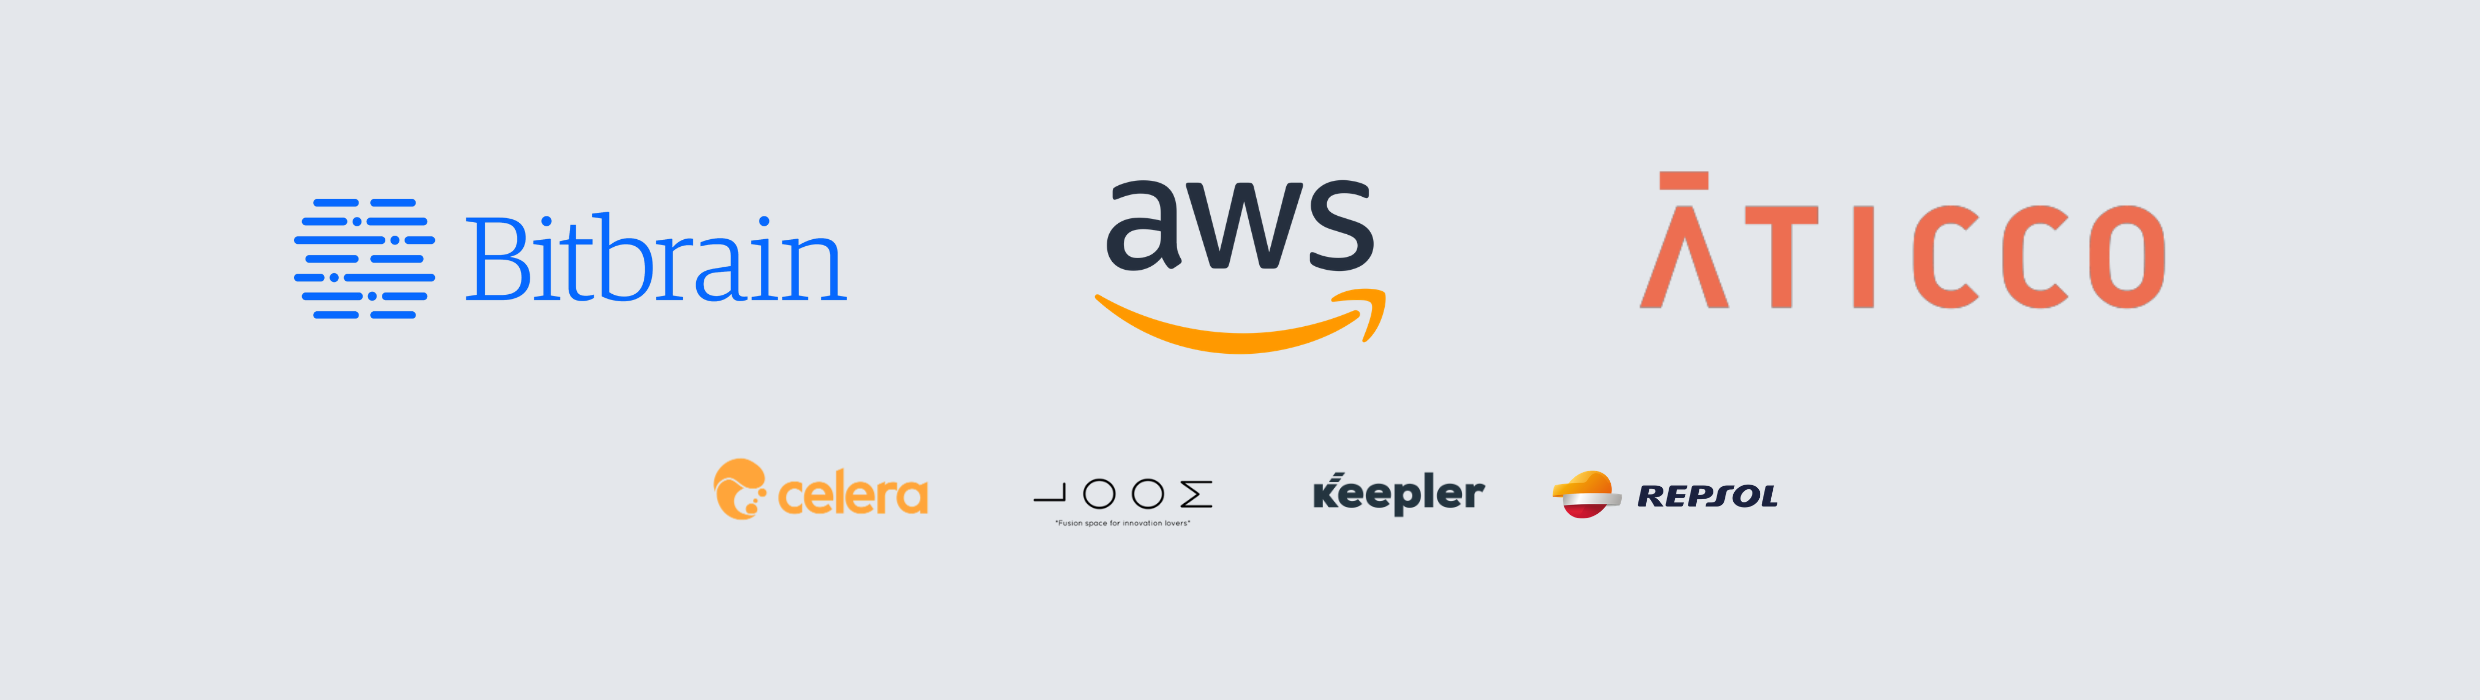
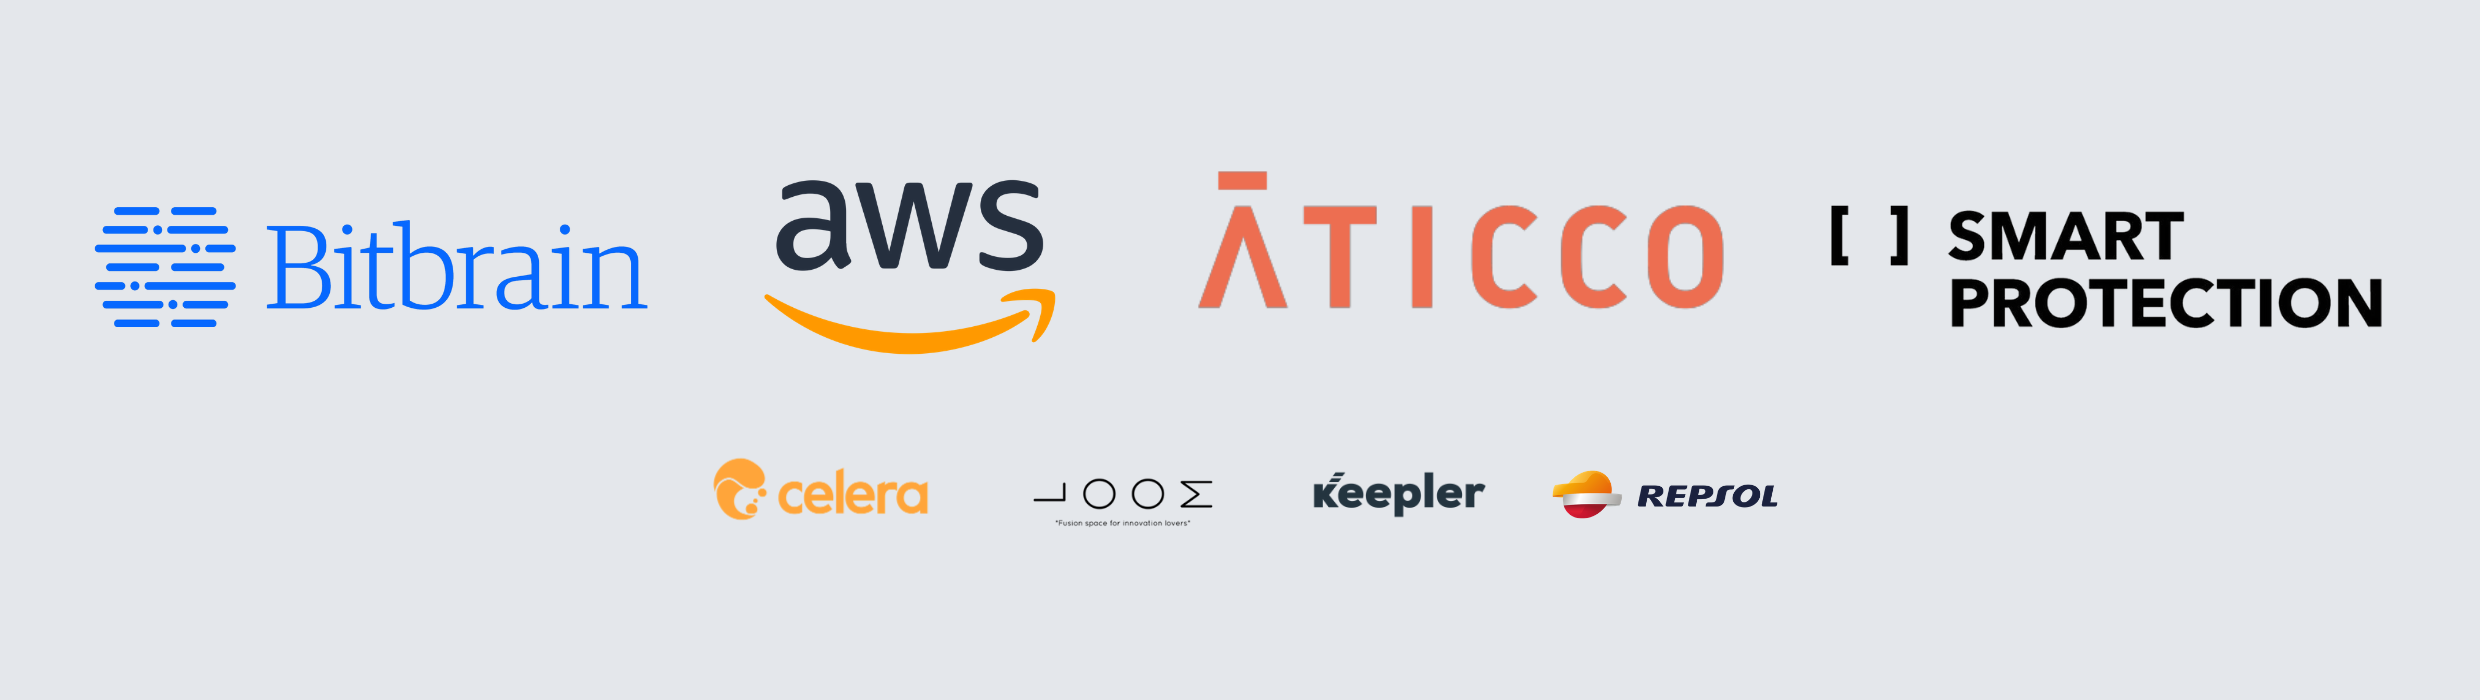
cambiada fecha madrid

Changed region(s): [[0.031, 0.24, 0.9625, 0.51]]

diff --git a/city-madrid.html b/city-madrid.html
@@ -1901,6 +1901,39 @@
               </div>
               <!--FELLOW-->
 
+              <!--FELLOW-->
+              <div class="grid-item identity">
+                <div
+                  class="thumbnail rounded img-scale-in"
+                  data-hover-easing="easeInOut"
+                  data-hover-speed="700"
+                  data-hover-bkg-color="#ffffff"
+                  data-hover-bkg-opacity="0.9"
+                >
+                  <a
+                    data-content="inline"
+                    data-aux-classes="tml-newsletter-modal tml-exit-light height-auto rounded"
+                    data-toolbar=""
+                    data-modal-mode
+                    data-modal-width="600"
+                    data-modal-animation="scaleIn"
+                    data-lightbox-animation="fadeIn"
+                    class="overlay-link lightbox-link"
+                    href="#ai-fellow-75"
+                  >
+                    <img src="images/fellows/Miguel_Blanco.jpeg" alt="" />
+                    <span class="overlay-info">
+                      <span>
+                        <span>
+                          Miguel Blanco
+                        </span>
+                      </span>
+                    </span>
+                  </a>
+                </div>
+              </div>
+              <!--FELLOW-->
+
               
 
 

diff --git a/modals.html b/modals.html
@@ -2718,6 +2718,46 @@ Cualquier reto se puede resolver mejor utilizando las herramientas adecuadas. <b
 </div>
 
 
+<!-- Madrid -->
+<div id="ai-fellow-75" class="section-block pt-0 pb-0 background-none hide">
+  <!-- Signup -->
+  <div class="section-block pt-20 pb-0 br-0">
+    <div class="row">
+      <div class="column width-10 offset-1 center">
+        <div class="signup-form-container">
+          <h3 class="color-white size-4 f-weight">
+            Miguel Blanco
+          </h3>
+          <h3 class="color-orange size-2-4 f-weight">
+            Mentor
+          </h3>
+        </div>
+      </div>
+    </div>
+  </div>
+  <!-- Signup End -->
+
+  <!-- Intro Title Section 2 -->
+  <div class="section-block small pt-0 pb-0">
+    <div class="media-overlay bkg-black opacity-03"></div>
+    <div class="row">
+      <div class="column width-12 pl-0 pr-0">
+        <p align="center">
+       Senior Data Scientist en Smart Protection
+
+
+ <br>
+          <a  href="https://www.linkedin.com/in/mblancom/"
+            >LinkedIn</a
+          >
+        </p>
+      </div>
+    </div>
+  </div>
+  <!-- Intro Title Section 2 End -->
+</div>
+
+
 <!-- CONTENIDO MADRID -->
 <div id="video-madrid-1" class="section-block pt-0 pb-0 background-none hide">
   <!-- Signup -->
